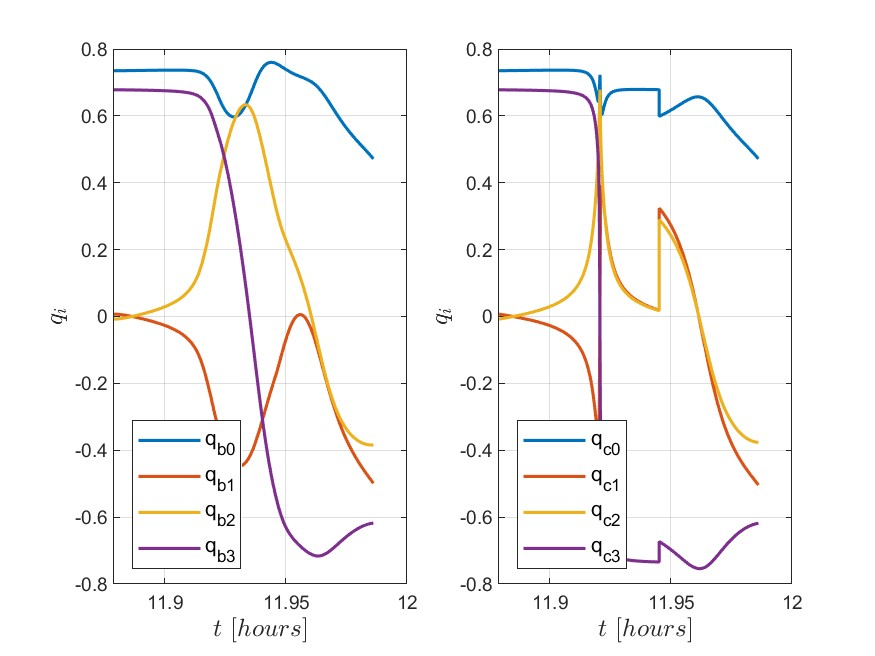
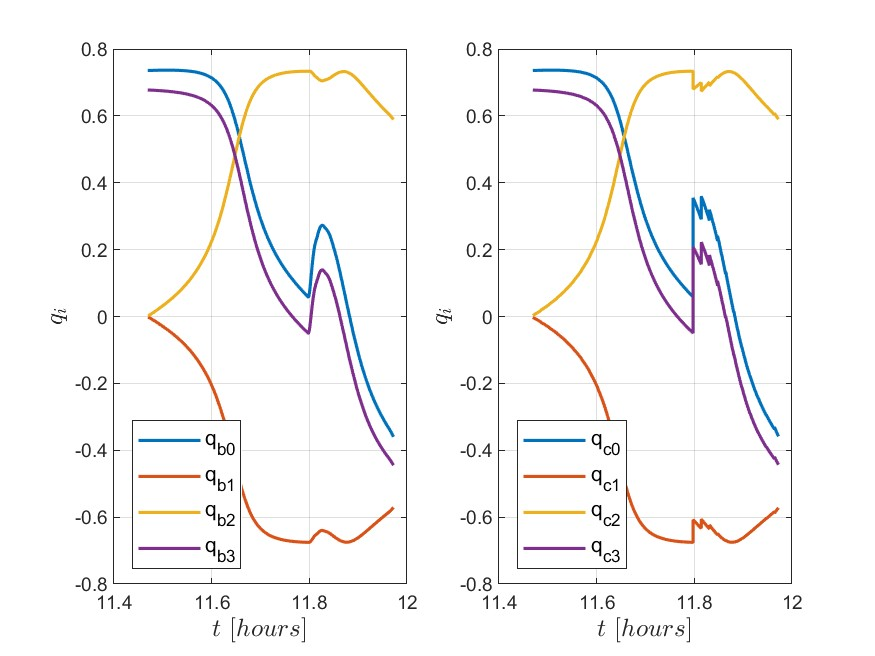
AOCS - full implementation

diff --git a/main.m b/main.m
@@ -13,7 +13,7 @@ addpath('Data/temp/')
 
 % Define Options
 global opt
-opt = struct('name', "Progator Options");
+opt = struct('name', "Options");
 opt.saveplots = false;
 opt.create_animation = false;
 opt.show_progress = false;
@@ -59,16 +59,16 @@ g0 = 9.80665;
 u_limit = 5e-5*g0;
 
 % Define the Chaser Initial Conditions ~ norm(rhodot_LVLH) = 1 m/s -> condition applied for the finetuning of the gain parameters
-RHO0_LVLH = [1.5, 0, 0, -1e-6, -1e-3, -1e-3]';                  % km, km/s
+RHO0_LVLH = [1.5, 0, 0, -1e-6, -1e-3, -1e-3]';              % km, km/s
 RHO0_LVLH = [RHO0_LVLH(1:3)/DU; RHO0_LVLH(4:6)/DU*TU];      % adim
 
 % Define Desired Conditions for Docking
-RHOf_LVLH = [-5e-3, 0, 0, 1e-5, 0, 0]';                     % km, km/s
+RHOf_LVLH = [-5e-3, 0, 0, 5e-5, 0, 0]';                     % km, km/s
 RHOf_LVLH = [RHOf_LVLH(1:3)/DU; RHOf_LVLH(4:6)/DU*TU];      % adim
 
 % Define Direct Approach Conditions
 rhof_LVLH_DA = 5e-3/DU * RHO0_LVLH(1:3)/norm(RHO0_LVLH(1:3));
-rhodotf_LVLH_DA = -1e-5/DU*TU * RHO0_LVLH(1:3)/norm(RHO0_LVLH(1:3));
+rhodotf_LVLH_DA = -5e-5/DU*TU * RHO0_LVLH(1:3)/norm(RHO0_LVLH(1:3));
 RHOf_LVLH_DA = [rhof_LVLH_DA; rhodotf_LVLH_DA];
 
 %% Propagate Reference Target Trajectory
@@ -199,7 +199,13 @@ TCC_ctrl_DA = [TCC_ctrl_DA; TCC_temp];
 TCC_T0 = TCC_ctrl_DA(end, :);           % this will be the initial point for the Terminal Trajectory
 t0_T = tspan_ctrl_DA(end);              % this will be the initial time for the Terminal Trajectory
 
-fprintf('Reached 50m Distance @ %.2f hrs.\n', (t0_T-t0)*TU/3600)
+% fprintf('Reached 50m Distance at: %02d hrs, %02d mins, %2.3f secs\n', time_elapsed(t0_T, t0, TU));
+disp(sprintf('Reached 100m Distance @ <strong>[%02d:%02d:%06.3f]</strong> (hh:mm:ss)', time_elapsed(t0_T, t0, TU)));
+
+% Show Original Trajectory
+figure('name', 'Original Trajectory');
+DrawTrajLVLH3D(TCC_ctrl_DA(:, 7:9)*DU);
+testPPs(RHOdPPsLVLH_DA(1:3), tspan_ctrl_DA);
 
 
 %% Terminal Trajectory: Chaser Backwards Propagation
@@ -234,7 +240,7 @@ save('Data/debugging.mat');
 close all
 clear
 load('Data/debugging.mat');
-clc
+% clc
 
 % Initialize Regenerative Quantities
 tspan_ctrl = [];
@@ -264,8 +270,8 @@ TCC_PPs_stack = [];
 misalignment = define_misalignment_error("null");
 
 % Define Propagation Settings
-dt_regen = 5*60/TU;             % renegerative propagation interval
-dt_min = 1*60/TU;               % minimum propagation interval
+dt_regen = 1*60/TU;             % renegerative propagation interval
+dt_min = 0.5*60/TU;               % minimum propagation interval
 prop_step = 1/TU;               % propagation time step
 max_branches = 500;             % maximum n° of branches of the regenerative trajectory
 optODE_rt = odeset('RelTol', 1e-9, 'AbsTol', 1e-9);
@@ -307,7 +313,7 @@ for branch = 1 : max_branches
 
     % Set the Via Points and Interpolate the Reference Terminal Trajectory
     if branch == 1
-        [RHOdPPsLVLH_rt, viapoints_rt, t_viapoints_rt, ~, t1_0, ~] = ReferenceTrajectory(TCC_rt0(1:12), TC0_backdrift, t0_rt, t0_backdrift, [1, 1]);
+        [RHOdPPsLVLH_rt, viapoints_rt, t_viapoints_rt, rho1_0, t1_0, l_hat_0] = ReferenceTrajectory(TCC_rt0(1:12), TC0_backdrift, t0_rt, t0_backdrift, [1, 1]);
     else
         [RHOdPPsLVLH_rt, viapoints_rt, t_viapoints_rt] = ReferenceTrajectory(TCC_rt0(1:12), TC0_backdrift, t0_rt, t0_backdrift, [1, 1], NaN, t1_0, NaN);
     end
@@ -434,7 +440,8 @@ for branch = 1 : max_branches
     % Define Time Domain
     t0_AOCS = t0_rt;
     tf_AOCS = min(t0_rt + dt_regen, tf_rt);
-    branch_squish_tol = 30/TU;  % 30 s
+    % branch_squish_tol = 30/TU;  % 30 s
+    branch_squish_tol = prop_step;
     if tf_rt - tf_AOCS < branch_squish_tol
         tf_AOCS = tf_rt;
     end
@@ -537,8 +544,11 @@ for branch = 1 : max_branches
     xb_AOCS_stack = [xb_AOCS_stack; xb_AOCS];
     u_rt_norm_stack = [u_rt_norm_stack; u_rt_norm];
     u_AOCS_norm_stack = [u_AOCS_norm_stack; u_AOCS_norm];
+    
+    % fprintf('(%.0fVP) Branch %.0f: [%02d h, %02d m, %2.3f s] -> [%02d h, %02d m, %2.3f s]\n', length(t_viapoints_rt), branch, time_elapsed(t0_AOCS, t0, TU), time_elapsed(tf_AOCS, t0, TU));
+    % fprintf('(%.0fVP) Branch %.0f: [%02d:%02d:%06.3f] -> [%02d:%02d:%06.3f]\n', length(t_viapoints_rt), branch, time_elapsed(t0_AOCS, t0, TU), time_elapsed(tf_AOCS, t0, TU));
+    disp(sprintf('(%.0fVP) Branch %.0f: <strong>[%02d:%02d:%06.3f]</strong> -> <strong>[%02d:%02d:%06.3f]</strong>', length(t_viapoints_rt), branch, time_elapsed(t0_AOCS, t0, TU), time_elapsed(tf_AOCS, t0, TU)));
 
-    fprintf('Branch %.0f: from t0 = %.4f min to tf = %.4f min\n', branch, ([t0_AOCS, tf_AOCS]-t0)*TU/60)
 
     % In-Step Visualization
     if debug
@@ -779,7 +789,7 @@ save('Data/temp/Raw Propagation.mat');
 
 close all
 clear
-clc
+% clc
 
 load('Data/temp/Raw Propagation.mat');
 
@@ -860,7 +870,7 @@ for i = 1 : size(RHO_LVLH, 1)
         end
         
         % AOCS Reconstruction
-        [~, ~, ~, ~, u_AOCS(s, :), ~, ~, ~, ~, Tc(s, :), ~] = ...
+        [~, ~, ~, ~, u(i, :), ~, ~, ~, f_norms(i), Tc(s, :), ~] = ...
             AOCS(tspan_ctrl(s), Y_ctrl(s, :)', EarthPPsMCI, SunPPsMCI, muM, ...
             muE, muS, MoonPPsECI, deltaE, psiM, deltaM, omegadotPPsLVLH, t0, tf, RHOdPPsLVLH_T(:, k), kp, omega_n, DU, TU, MU, TCC_PPs_stack(:, k), omega_cPPs_rt_stack(:, k), omegadot_cPPs_rt_stack(:, k), Q_N2C_PPs_rt_stack(:, k), sign_qe0_0_stack(k), misalignment, 0, 1);
 
@@ -917,12 +927,12 @@ save('Data/temp/Post-Processed Propagation.mat');
 close all
 clear
 load('Data/temp/Post-Processed Propagation.mat');
-clc
+% clc
 
 
 opt.saveplots = false;
 opt.showgui = false;
-opt.additional_plots = true;
+opt.additional_plots = false;
 
 try
     close(results_gui)
@@ -954,11 +964,11 @@ if opt.showgui
 end
 
 % Show Numerical Results
-fprintf('Total Runtime: %.1f s.\n', runtime)
+fprintf('\nTotal Runtime: %.1f s.\n\n', runtime)
 desState = [RHOf_LVLH(1:3)'*DU*1e3, RHOf_LVLH(4:6)'*DU/TU*1e3];
 finalState = [TC_drift(end, 7:9)*DU*1e3, TC_drift(end, 10:12)*DU/TU*1e3];
 deltaState = desState-finalState;
-VarNames = {'rho (m)', 'theta (m)', 'h (m)', 'v_rho (m/s)', 'v_theta (m/s)', 'v_h (m/s)'};
+VarNames = {'r (m)', 'theta (m)', 'h (m)', 'v_r (m/s)', 'v_theta (m/s)', 'v_h (m/s)'};
 DesRhoState = array2table(desState, 'VariableNames', VarNames, 'RowNames', {'Desired State'});
 FinalRhoState = array2table(finalState, 'VariableNames', VarNames, 'RowNames', {'Final State'});
 DeltaRhoState = array2table(deltaState, 'VariableNames', VarNames, 'RowNames', {'Delta State'});

diff --git a/Library/time_elapsed.m b/Library/time_elapsed.m
@@ -1,0 +1,39 @@
+function t_split = time_elapsed(t2, t1, TU, format)
+% Description: this function computes time elapsed between two timestamps
+% provided in seconds and outputs the result in the provided format.
+
+% Set time unit multiplier to 1 if not specified
+if nargin < 3
+    TU = 1;
+end
+if nargin < 4
+    format = 'hhmmss';
+end
+
+% Define constants for time units
+Day = 86400;  % seconds in a day
+Hour = 3600;  % seconds in an hour
+Min = 60;     % seconds in a minute
+
+% Calculate the time elapsed
+if format == "hhmmss"
+    elapsedSeconds = (t2 - t1) * TU; % Calculate total elapsed seconds considering the time unit
+    tHR = floor(elapsedSeconds / Hour); % Compute whole hours
+    elapsedSeconds = elapsedSeconds - tHR * Hour; % Subtract hours part from total
+    tMIN = floor(elapsedSeconds / Min); % Compute whole minutes
+    tSEC = elapsedSeconds - tMIN * Min; % Remaining seconds after subtracting hours and minutes
+    
+    t_split = [tHR, tMIN, tSEC]; % Output result as [hours, minutes, seconds]
+elseif format == "ddhhmmss"
+    elapsedSeconds = (t2 - t1) * TU;
+    tDAY = floor(elapsedSeconds / Day);
+    elapsedSeconds = elapsedSeconds - tDAY * Day;
+    tHR = floor(elapsedSeconds / Hour);
+    elapsedSeconds = elapsedSeconds - tHR * Hour;
+    tMIN = floor(elapsedSeconds / Min);
+    tSEC = elapsedSeconds - tMIN * Min;  % calculate the remaining seconds
+    
+    t_split = [tDAY, tHR, tMIN, tSEC];
+end
+
+end

diff --git a/Library/ReferenceTrajectory.m b/Library/ReferenceTrajectory.m
@@ -80,7 +80,7 @@ M = 1000;   % n° of points for sample tspan
 tspan_check = linspace(t0, tf, M)';
 dist = zeros(M, 1);
 
-sphere_radius = 12e-3/DU;           % 12m of emergency sphere radius
+sphere_radius = 10e-3/DU;           % 12m of emergency sphere radius
 emergency_radius = 10e-3/DU;
 
 % Check for Emergency Sphere Intersection
@@ -96,7 +96,7 @@ end
 % Three Via Points Method
 if collision
 
-    fprintf('Switching to 3 Via Points Method.\n')
+    % fprintf('Switching to 3 Via Points Method.\n')
 
     % Compute MidTime
     if isnan(t1)
@@ -126,15 +126,18 @@ if collision
     rho_r = [rho_r0, rho_r1, rho_rf]';
     rho_t = [rho_t0, rho_t1, rho_tf]';
     rho_h = [rho_h0, rho_h1, rho_hf]';
-    
-    % Compute Reference Trajectory
-    TangentPPs = TangentInterpolation(rho_0, rho_f, rho_1, rhodot_0, rhodot_f, t0, tf, t1, l_hat);
 
-    if ~isempty(TangentPPs)
-        RHOrefPPs = TangentPPs;
-        viapoints = [rho_r, rho_t, rho_h];
-        tspan_viapoints = [t0, t1, tf]';
-        fprintf('rho1 = [%.4f\t%.4f\t%.4f]\n', rho_1*DU)
+    if t1 > t0
+    
+        % Compute Reference Trajectory
+        TangentPPs = TangentInterpolation(rho_0, rho_f, rho_1, rhodot_0, rhodot_f, t0, tf, t1, l_hat);
+    
+        if ~isempty(TangentPPs)
+            RHOrefPPs = TangentPPs;
+            viapoints = [rho_r, rho_t, rho_h];
+            tspan_viapoints = [t0, t1, tf]';
+        end
+
     end
 
 end

diff --git a/Library/is_terminal_distance.m b/Library/is_terminal_distance.m
@@ -1,16 +1,20 @@
-function [value, stop] = is_terminal_distance(t, state)
+function [value, stop] = is_terminal_distance(~, state, terminal_dist)
 % Assuming y contains position information in the first three elements
-% Adjust the indices according to your state vector structure
+% Adjust the indices according to your state vector structure.
 
 global DU
+
+if nargin < 3
+    terminal_dist = 100e-3/DU;
+end
 
 rho_vect = state(7:9);
 rho = norm(rho_vect);
 
-% Event condition: distance less than 50 meters
-value = rho - 50e-3/DU; % Becomes negative when distance is less than 50 m
+% Event Condition
+value = rho - terminal_dist;    % negative when distance < terminal_dist
 
-% Stop integration when distance is less than 50 meters
+% Stop integration when distance is less than terminal_dist
 stop = value <= 0;
 
 end

diff --git a/Library/testPPs.m b/Library/testPPs.m
@@ -1,6 +1,13 @@
-function testPPs(PPs, tspan)
+function testPPs(PPs, tspan, color, linestyle)
 % Description: this function plots the evolution of the trajectory provided
 % in terms of PPs over the time in tspan.
+
+if nargin < 3
+    color = '#14dde0';
+end
+if nargin < 4
+    linestyle = '-.';
+end
 
 global DU
 
@@ -10,8 +17,7 @@ for i = 1 : length(tspan)
     state(i, :) = ppsval(PPs, tspan(i));
 end
 
-% DrawTrajLVLH3D(state(:, 1:3)*DU, '#6efad2', '-.');
-DrawTrajLVLH3D(state(:, 1:3)*DU, '#14dde0', '-.');
+DrawTrajLVLH3D(state(:, 1:3)*DU, color, linestyle);
 
 
 end
